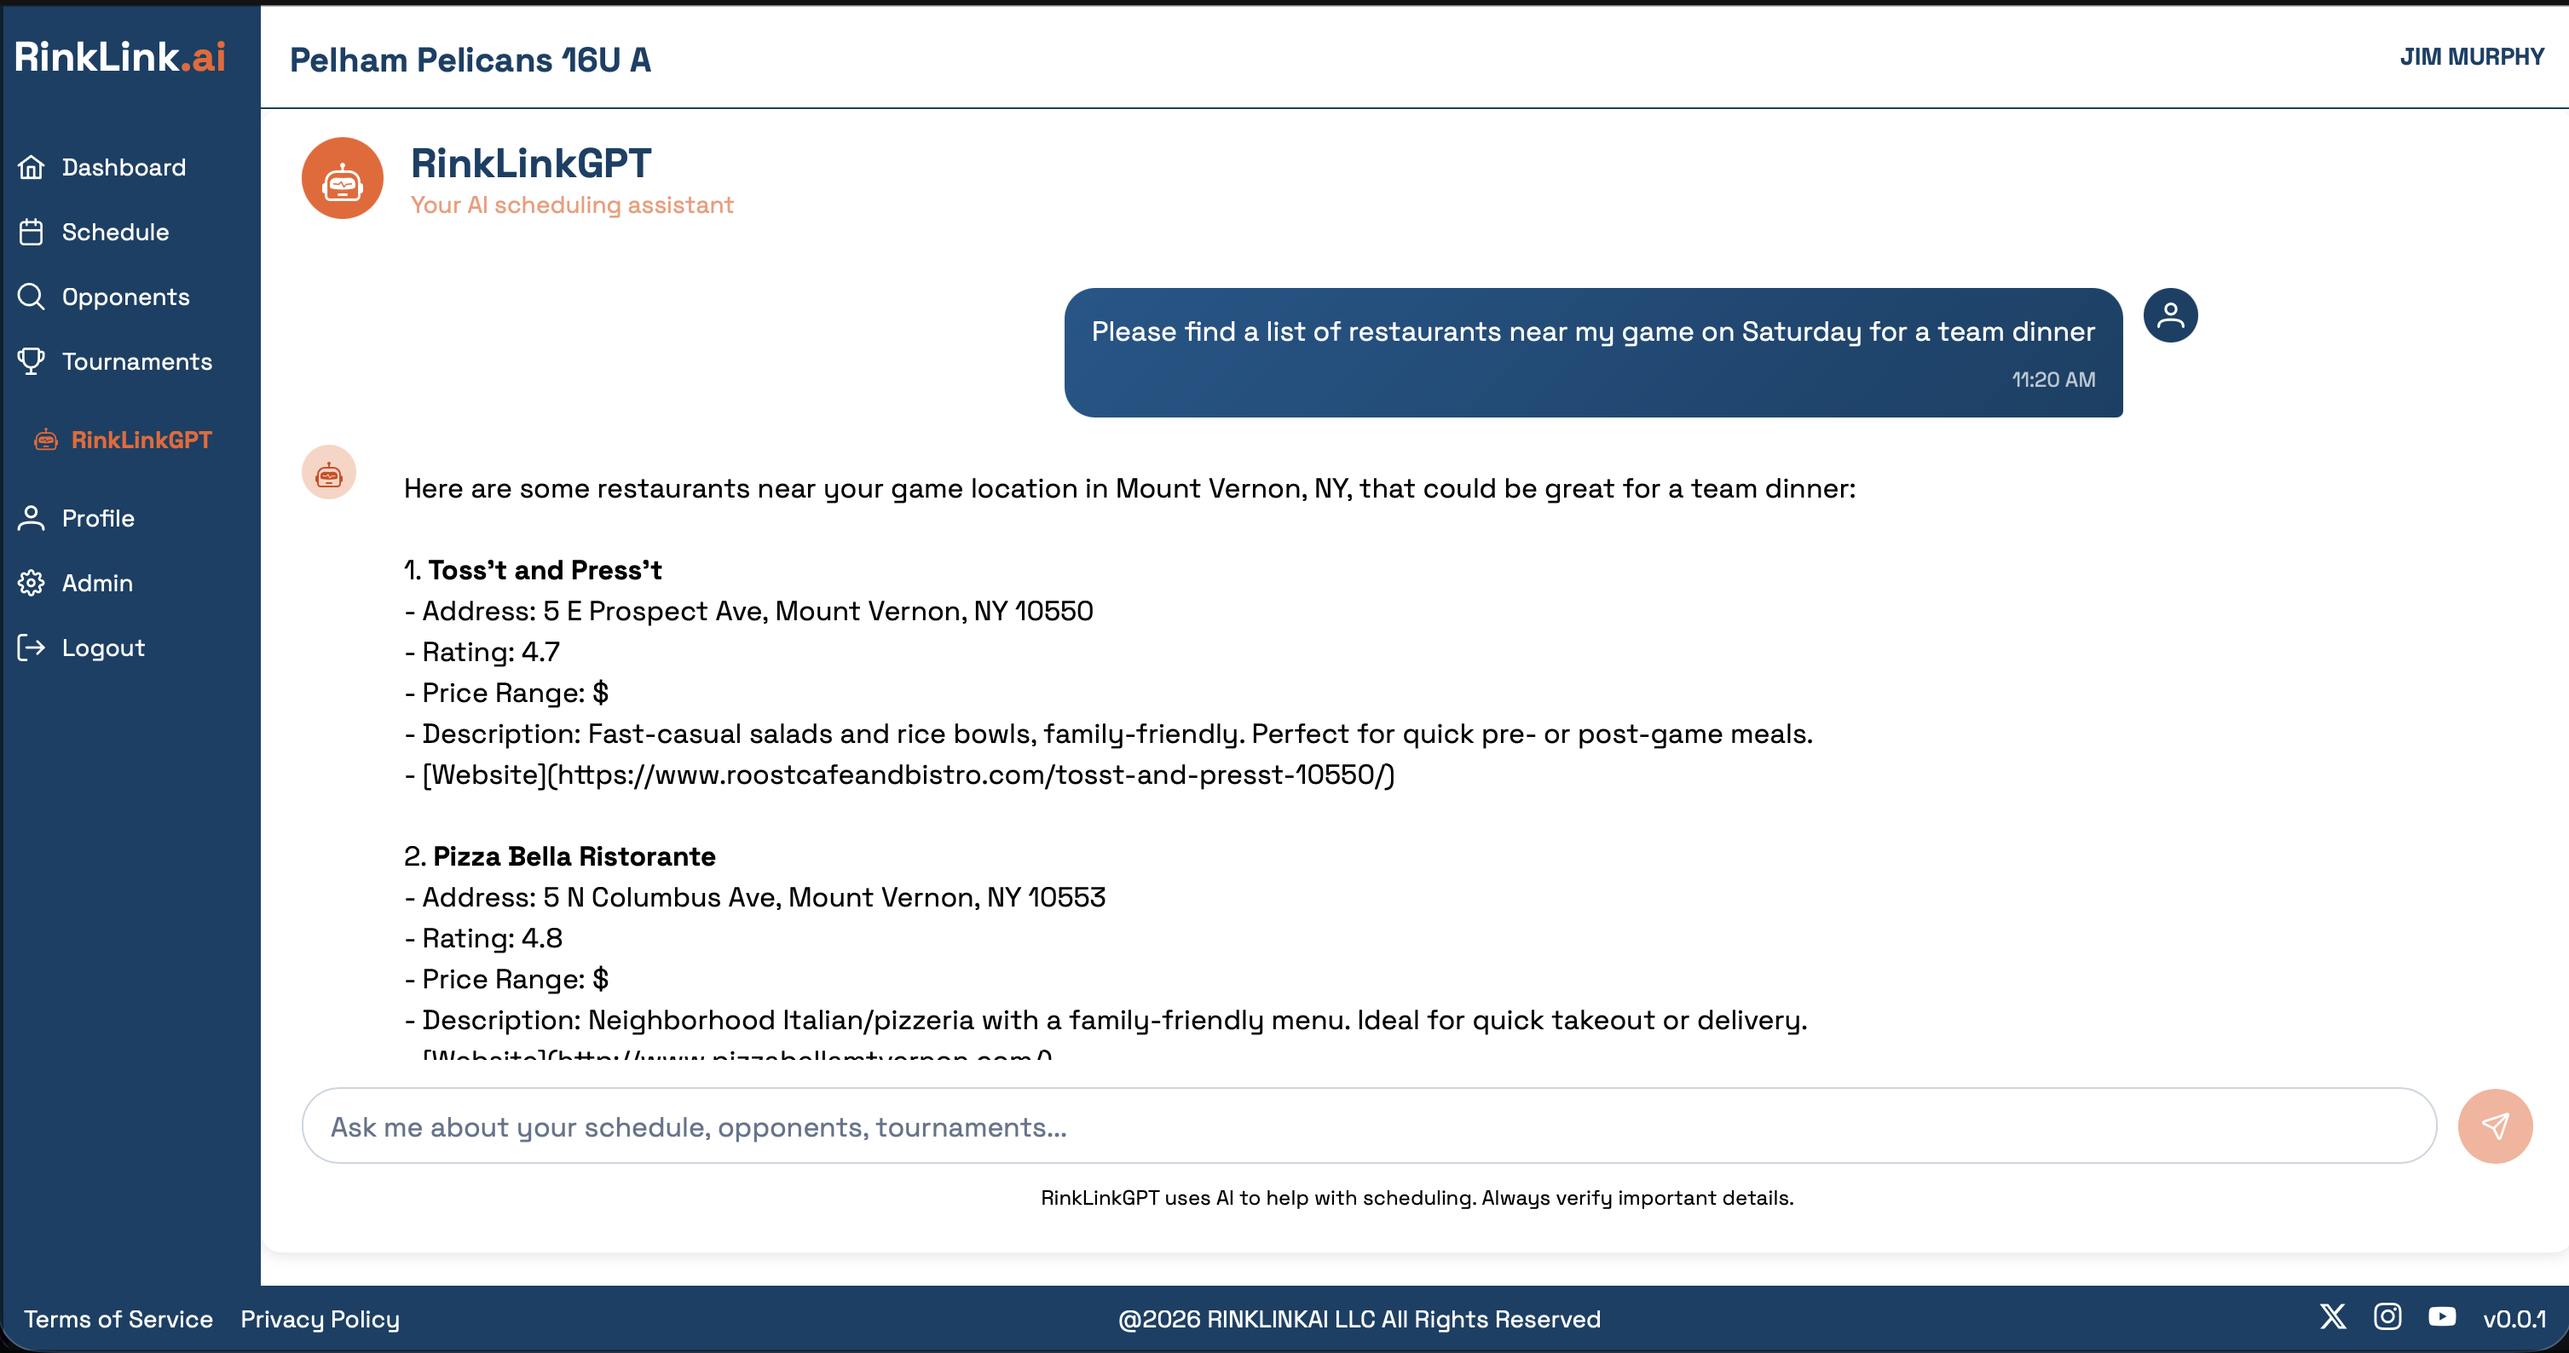
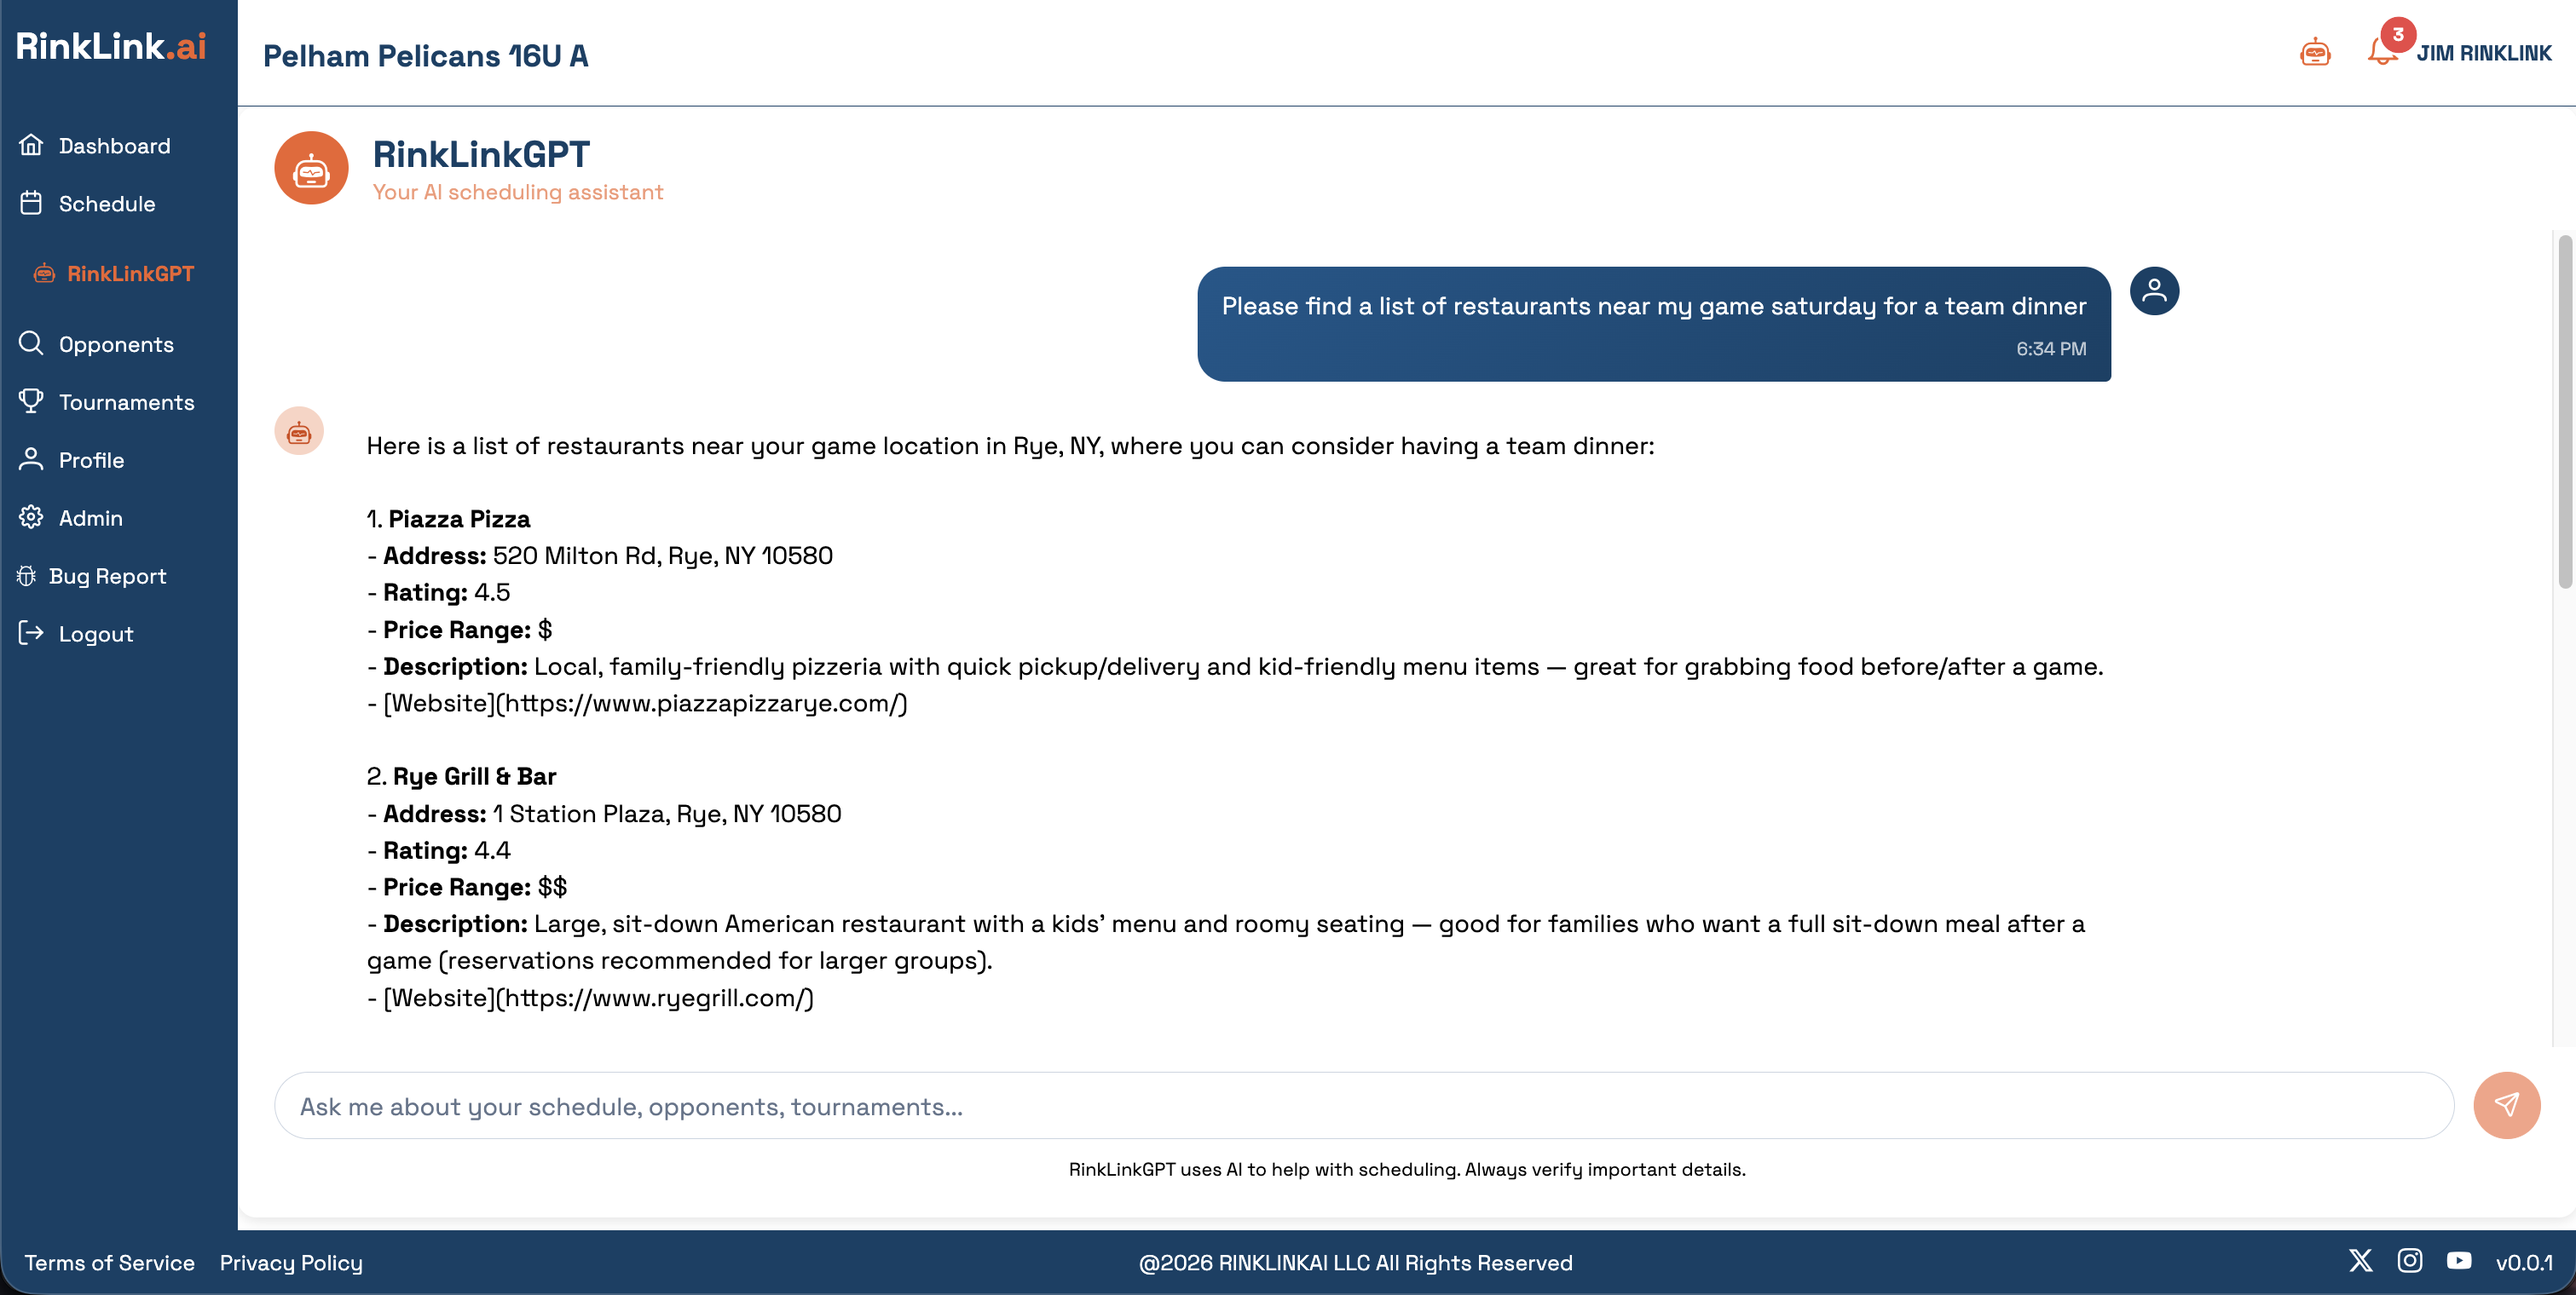
update landing page images

diff --git a/apps/web/src/app/landing/tournaments/tournament-public-card/tournament-public-card.component.ts b/apps/web/src/app/landing/tournaments/tournament-public-card/tournament-public-card.component.ts
@@ -60,7 +60,9 @@ import { TagModule } from 'primeng/tag';
               />
             }
             <!-- Distance indicator for authenticated users -->
-            @if (showAuthenticatedFeatures && tournament.distance !== undefined) {
+            @if (
+              showAuthenticatedFeatures && tournament.distance !== undefined
+            ) {
               <div class="distance-badge">
                 <i class="pi pi-compass"></i>
                 <span>{{ formatDistance(tournament.distance) }}</span>
@@ -116,7 +118,11 @@ import { TagModule } from 'primeng/tag';
               <span class="detail-label">Levels</span>
               <div class="tag-list">
                 @for (level of getLevels(); track level) {
-                  <p-tag [value]="level" severity="secondary" [rounded]="true" />
+                  <p-tag
+                    [value]="level"
+                    severity="secondary"
+                    [rounded]="true"
+                  />
                 }
               </div>
             </div>
@@ -138,7 +144,7 @@ import { TagModule } from 'primeng/tag';
             label="Register"
             icon="pi pi-trophy"
             iconPos="right"
-            
+            variant="outlined"
             (click)="onRegister($event)"
           />
         } @else {
@@ -146,7 +152,7 @@ import { TagModule } from 'primeng/tag';
             label="Contact"
             icon="pi pi-envelope"
             severity="secondary"
-            [outlined]="true"
+            variant="outlined"
             (click)="onContact($event)"
           />
         }
@@ -157,7 +163,7 @@ import { TagModule } from 'primeng/tag';
             label="Add"
             icon="pi pi-plus"
             iconPos="right"
-            [outlined]="true"
+            variant="outlined"
             (click)="onAddToSchedule($event)"
           />
         }
@@ -230,7 +236,9 @@ export class TournamentPublicCardComponent {
       // Check if it's a nested array like [["10U", "12U"]]
       if (data.length > 0 && Array.isArray(data[0])) {
         // Flatten nested arrays
-        return data.flat().filter((item): item is string => typeof item === 'string');
+        return data
+          .flat()
+          .filter((item): item is string => typeof item === 'string');
       }
       // Regular array - filter to strings only
       return data.filter((item): item is string => typeof item === 'string');
@@ -238,7 +246,10 @@ export class TournamentPublicCardComponent {
 
     // If it's a comma-separated string
     if (typeof data === 'string') {
-      return data.split(',').map((s) => s.trim()).filter(Boolean);
+      return data
+        .split(',')
+        .map((s) => s.trim())
+        .filter(Boolean);
     }
 
     return [];

diff --git a/apps/web/src/app/landing/features/features.component.ts b/apps/web/src/app/landing/features/features.component.ts
@@ -44,8 +44,8 @@ interface Feature {
                 [src]="feature.image"
                 [alt]="feature.alt"
                 loading="lazy"
-                width="1000"
-                height="600"
+                width="100%"
+                height="100%"
               />
             </div>
           </div>
@@ -66,11 +66,10 @@ export class FeaturesComponent {
         'Find opponents at your level, nearby or on the road. RinkLink surfaces the best matchups based on skill, distance, and schedule availability.',
       bullets: [
         'Filter by skill level, distance, and open dates',
-        'View opponents on an interactive map',
         'Request games directly from search results',
       ],
-      image: 'find-nearby-teams.gif',
-      alt: 'Interactive map showing nearby hockey teams filtered by skill level and distance',
+      image: 'game-matching-assistant.gif',
+      alt: 'AI Agent helping to find and schedule hockey games with nearby opponents',
     },
     {
       icon: 'pi pi-exclamation-triangle',
@@ -97,7 +96,7 @@ export class FeaturesComponent {
         'Highlights date conflicts and travel distance',
         'One-click add to your season calendar',
       ],
-      image: 'tournaments.gif',
+      image: 'tournament-fit.gif',
       alt: 'Tournament listing with fit scores and one-click scheduling',
     },
     {

diff --git a/apps/web/src/app/landing/pricing/pricing.component.ts b/apps/web/src/app/landing/pricing/pricing.component.ts
@@ -64,7 +64,7 @@ const FEATURES = [
       <header class="hero-section">
         <h1>Simple, Transparent Pricing</h1>
         <p class="subtitle">
-          Pay only for what you need. No hidden fees, cancel anytime.
+          Pay only for what you need. No hidden fees!
         </p>
       </header>
 
@@ -73,11 +73,11 @@ const FEATURES = [
           <div class="pricing-option">
             <div class="price-display">
               <span class="price">\${{ pricePerSeat }}</span>
-              <span class="price-detail">per seat / year</span>
+              <span class="price-detail">per user / year</span>
             </div>
 
             <div class="seat-selector">
-              <label for="seats">Number of seats</label>
+              <label for="seats">Number of users</label>
               <div class="seat-controls">
                 <button
                   type="button"

diff --git a/apps/web/src/app/landing/tournaments/tournament-public-card/tournament-public-card.component.scss b/apps/web/src/app/landing/tournaments/tournament-public-card/tournament-public-card.component.scss
@@ -49,8 +49,8 @@
           width: 100% !important;
         }
         &:hover {
-          background: var(--p-primary-700);
-          border-color: var(--p-primary-700);
+          background: var(--secondary-600);
+          border-color: var(--secondary-600);
         }
       }
     }

diff --git a/apps/web/src/app/landing/features/features.component.scss b/apps/web/src/app/landing/features/features.component.scss
@@ -18,7 +18,7 @@
 
 .feature-detail {
   display: grid;
-  grid-template-columns: 1fr 1fr;
+  grid-template-columns: 1fr 2fr;
   gap: 3rem;
   align-items: center;
   text-align: left;

diff --git a/apps/web/src/app/landing/home/home.component.scss b/apps/web/src/app/landing/home/home.component.scss
@@ -8,7 +8,7 @@
 
   &__section {
     width: 90%;
-    max-width: 1100px;
+    max-width: 1400px;
   }
 
   @media (max-width: 768px) {
